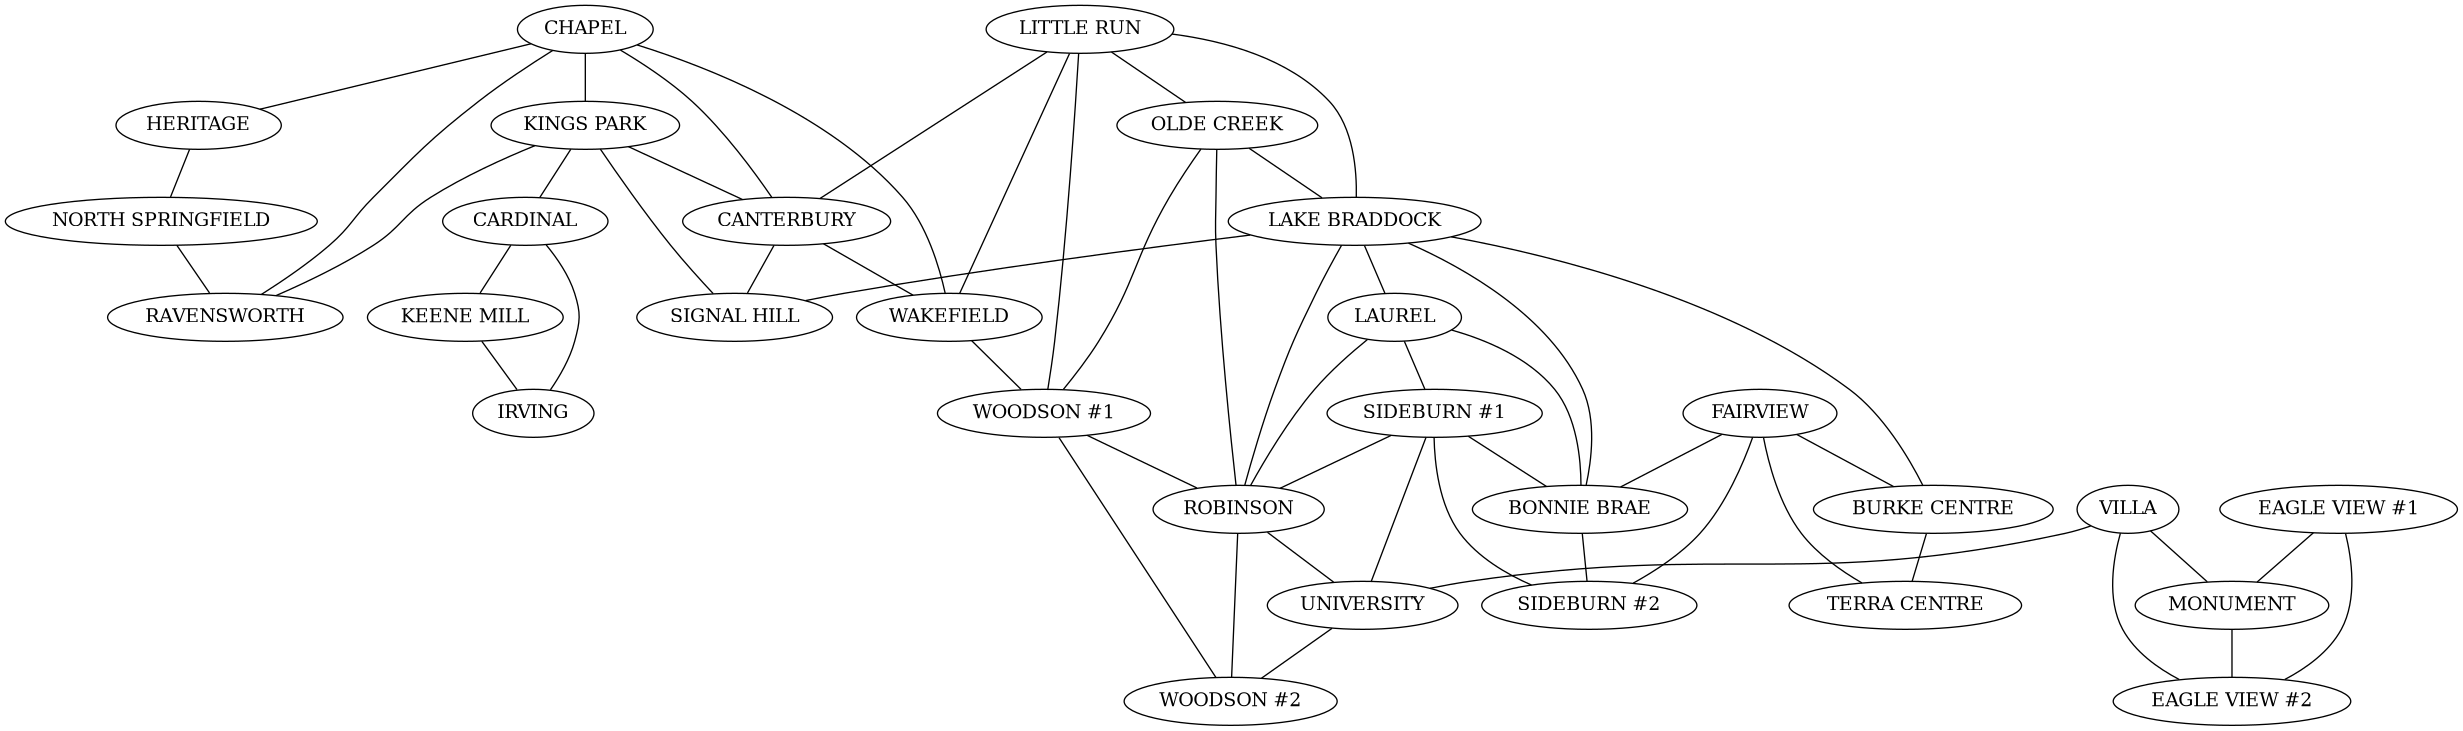
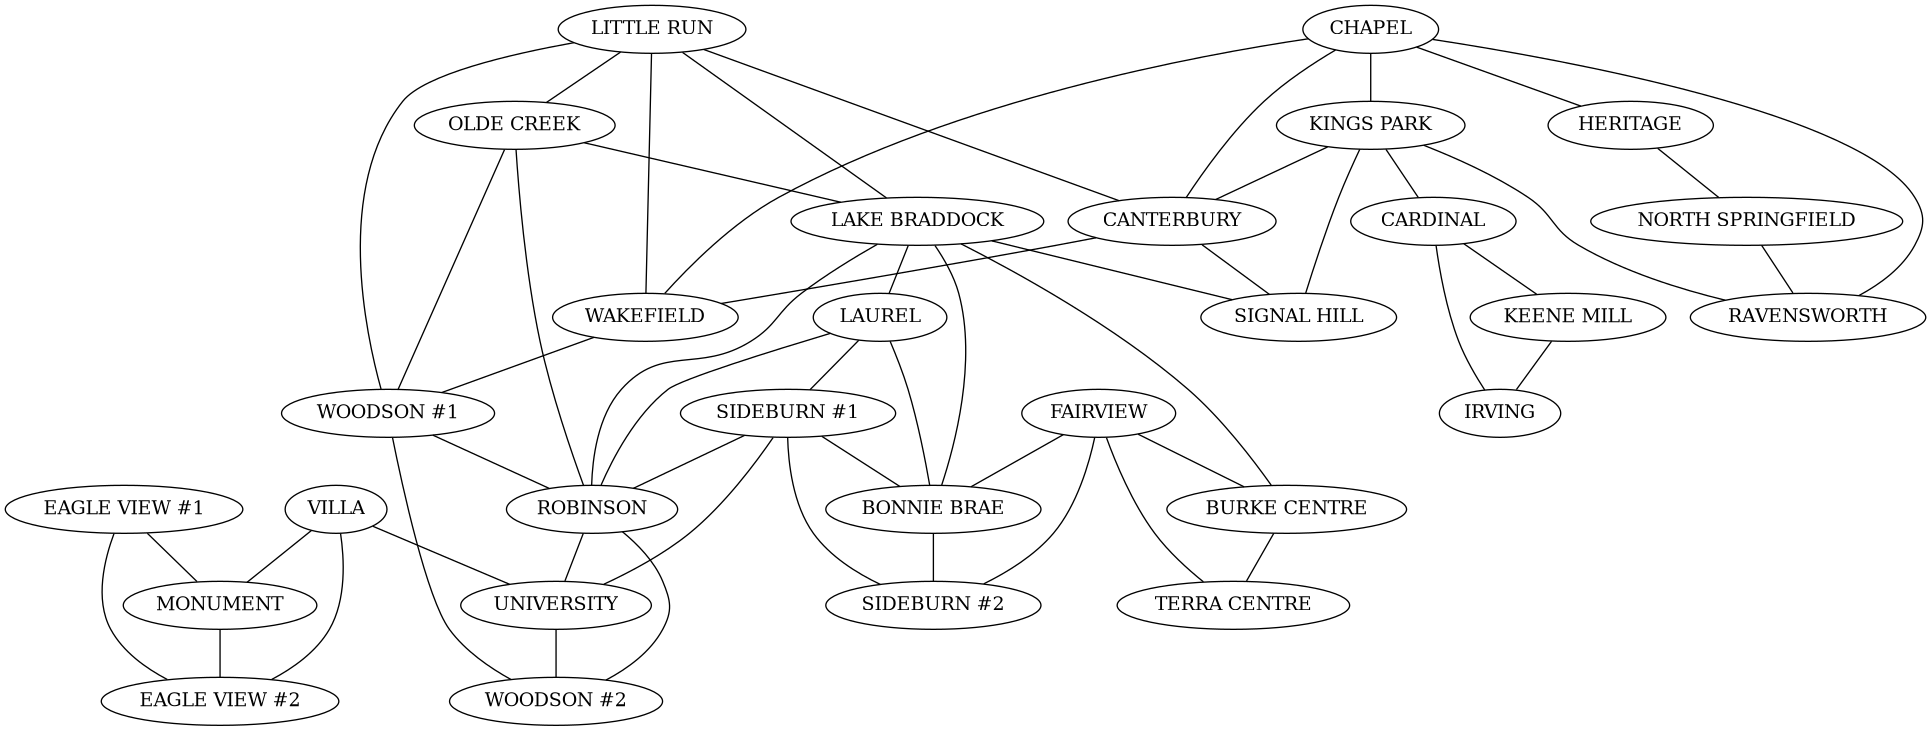
Update precinct graph DOT file formatting and reverse precinct order in graph generation

diff --git a/src/createPrecinctGraph.js b/src/createPrecinctGraph.js
@@ -19,7 +19,7 @@ let graph = 'graph precinct_graph {\n';
 graph += 'node [shape=ellipse];\n';
 graph += 'edge [color=black];\n';
 
-for (const precinct of precincts) {
+for (const precinct of precincts.reverse()) {
     graph += `${precinct.id} [label="${precinct.name}"];\n`;
     for (const neighbor of precinct.neighbors) {
         if (precinct.id < neighbor) { // to avoid duplicate edges
